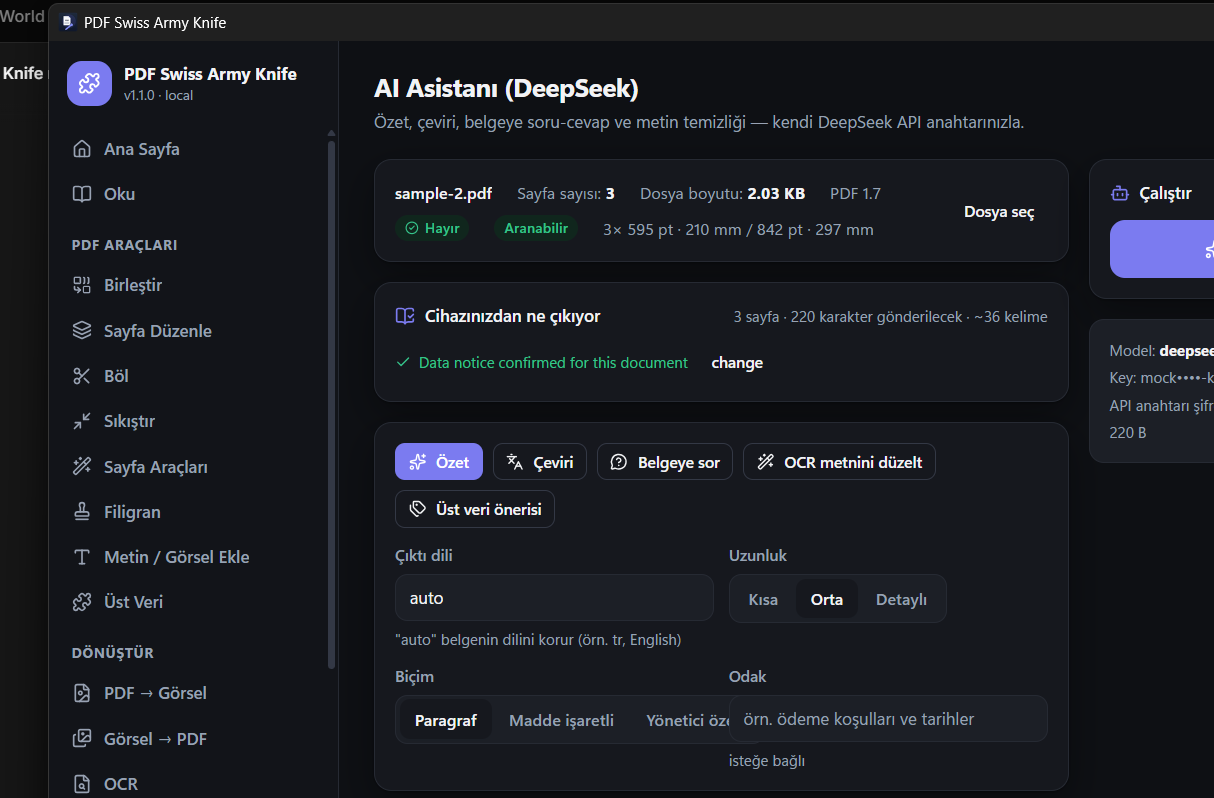
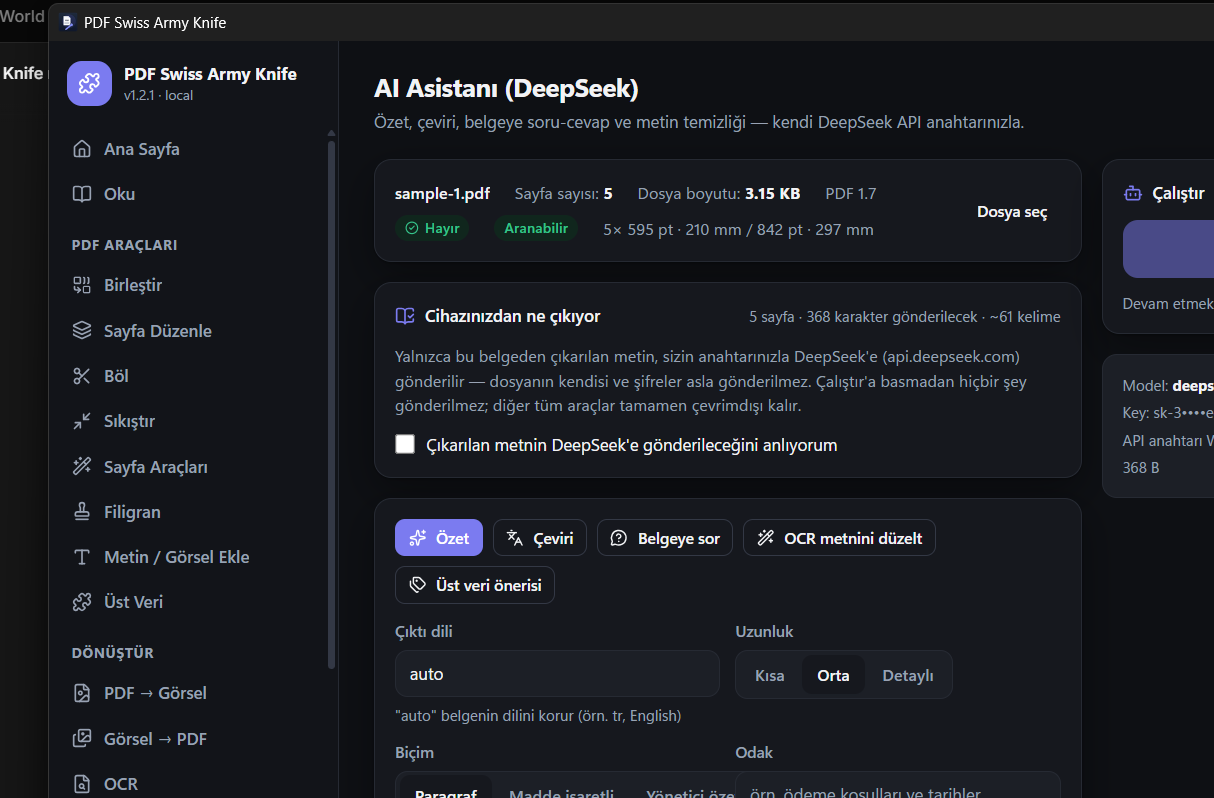
docs: v1.2.1 release notes and AI model documentation

diff --git a/docs/release-notes-v1.2.1.md b/docs/release-notes-v1.2.1.md
@@ -1,0 +1,23 @@
+# PDF Swiss Army Knife v1.2.1 — AI model defaults to DeepSeek V4 Flash
+
+Small follow-up release for the AI assistant.
+
+## What changed
+
+- **Default model is now `deepseek-v4-flash`** (DeepSeek V4 Flash). When you add your API key and run an AI action, requests go to the Flash model without any extra configuration. Note that DeepSeek's `deepseek-v4-flash` alias currently serves **DeepSeek-V4-Flash-0731**.
+- **Model picker in Settings** instead of a plain text field:
+  - `deepseek-v4-flash` — DeepSeek V4 Flash (fast, recommended, default)
+  - `deepseek-v4-flash-vision-exp` — experimental model that also accepts images
+  - `deepseek-v4-pro` — highest quality, slower
+  - `deepseek-chat` / `deepseek-reasoner` — legacy aliases for accounts that still use them
+  - **Custom model id…** — free text for any other model (including local OpenAI-compatible servers)
+- The settings panel explains the default, and "Test connection" reports which model answered, so you can confirm the routing before using AI on real documents.
+
+## Verification
+
+- Request routing verified against a local mock endpoint: the captured outgoing request used `model=deepseek-v4-flash` with `stream=true`.
+- `cargo test -p aicore` (12 tests) still passes; the desktop build, installer and portable package are built for **1.2.1**.
+
+## Privacy reminder (unchanged)
+
+AI stays off until you add your own key and confirm the per-document data notice. Only extracted text is sent; the key is DPAPI-encrypted on disk; every other tool in the app remains fully offline.

diff --git a/README.md b/README.md
@@ -66,6 +66,7 @@ How it stays honest:
 - **What is sent:** only the extracted text of the document you chose (page count and character count are shown before you run). Never the file, never passwords, never metadata you did not ask for.
 - **Key storage:** the API key is encrypted with **Windows DPAPI** (`CryptProtectData`), so only your Windows account on that machine can decrypt it. It is never logged.
 - **Any OpenAI-compatible endpoint works.** Point the base URL at a local server (Ollama, LM Studio, llama.cpp) and the AI features stay entirely offline.
+- **Model selection:** the default is **`deepseek-v4-flash`** (DeepSeek V4 Flash, the fast model); Settings offers `deepseek-v4-flash`, `deepseek-v4-flash-vision-exp`, `deepseek-v4-pro` and the legacy `deepseek-chat` / `deepseek-reasoner` aliases, plus a free-text field for any other model id. Note that DeepSeek's `deepseek-v4-flash` alias currently serves DeepSeek-V4-Flash-0731.
 - Failures are reported with clear codes: missing key, rejected key, rate limit, insufficient balance, network unreachable, no text layer (run OCR first), context too large.
 
 ### Reading mode
